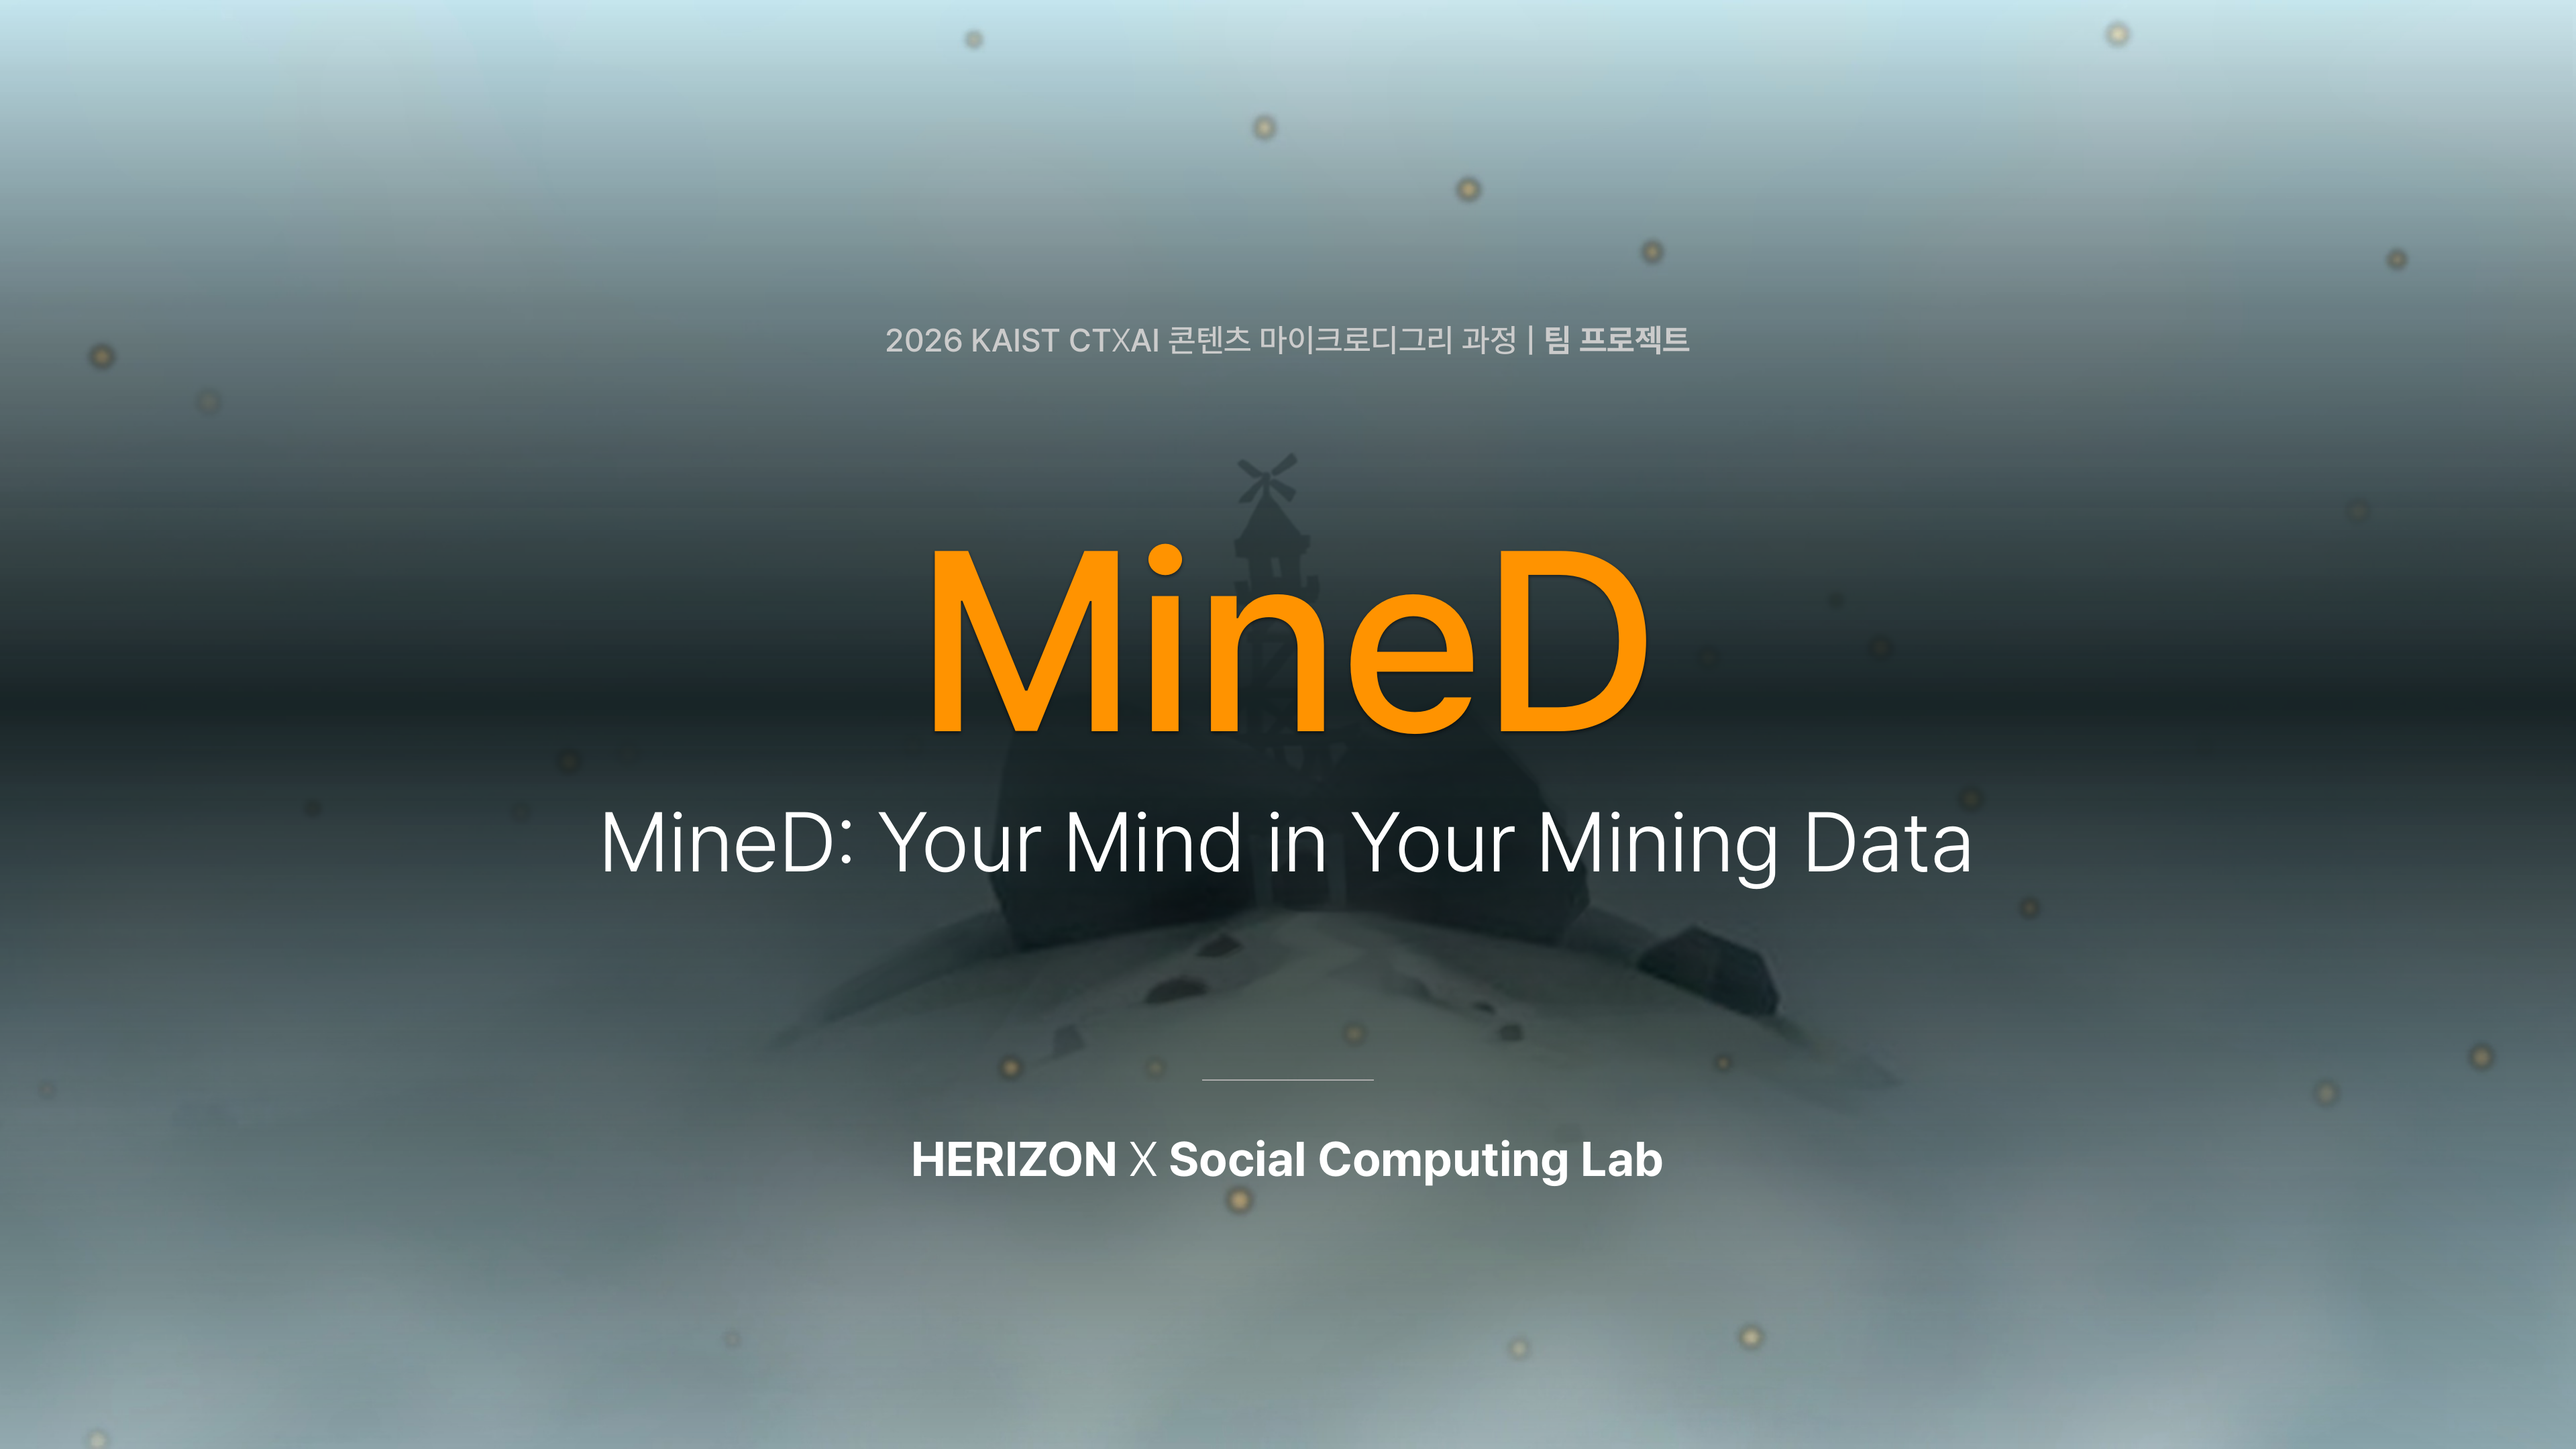
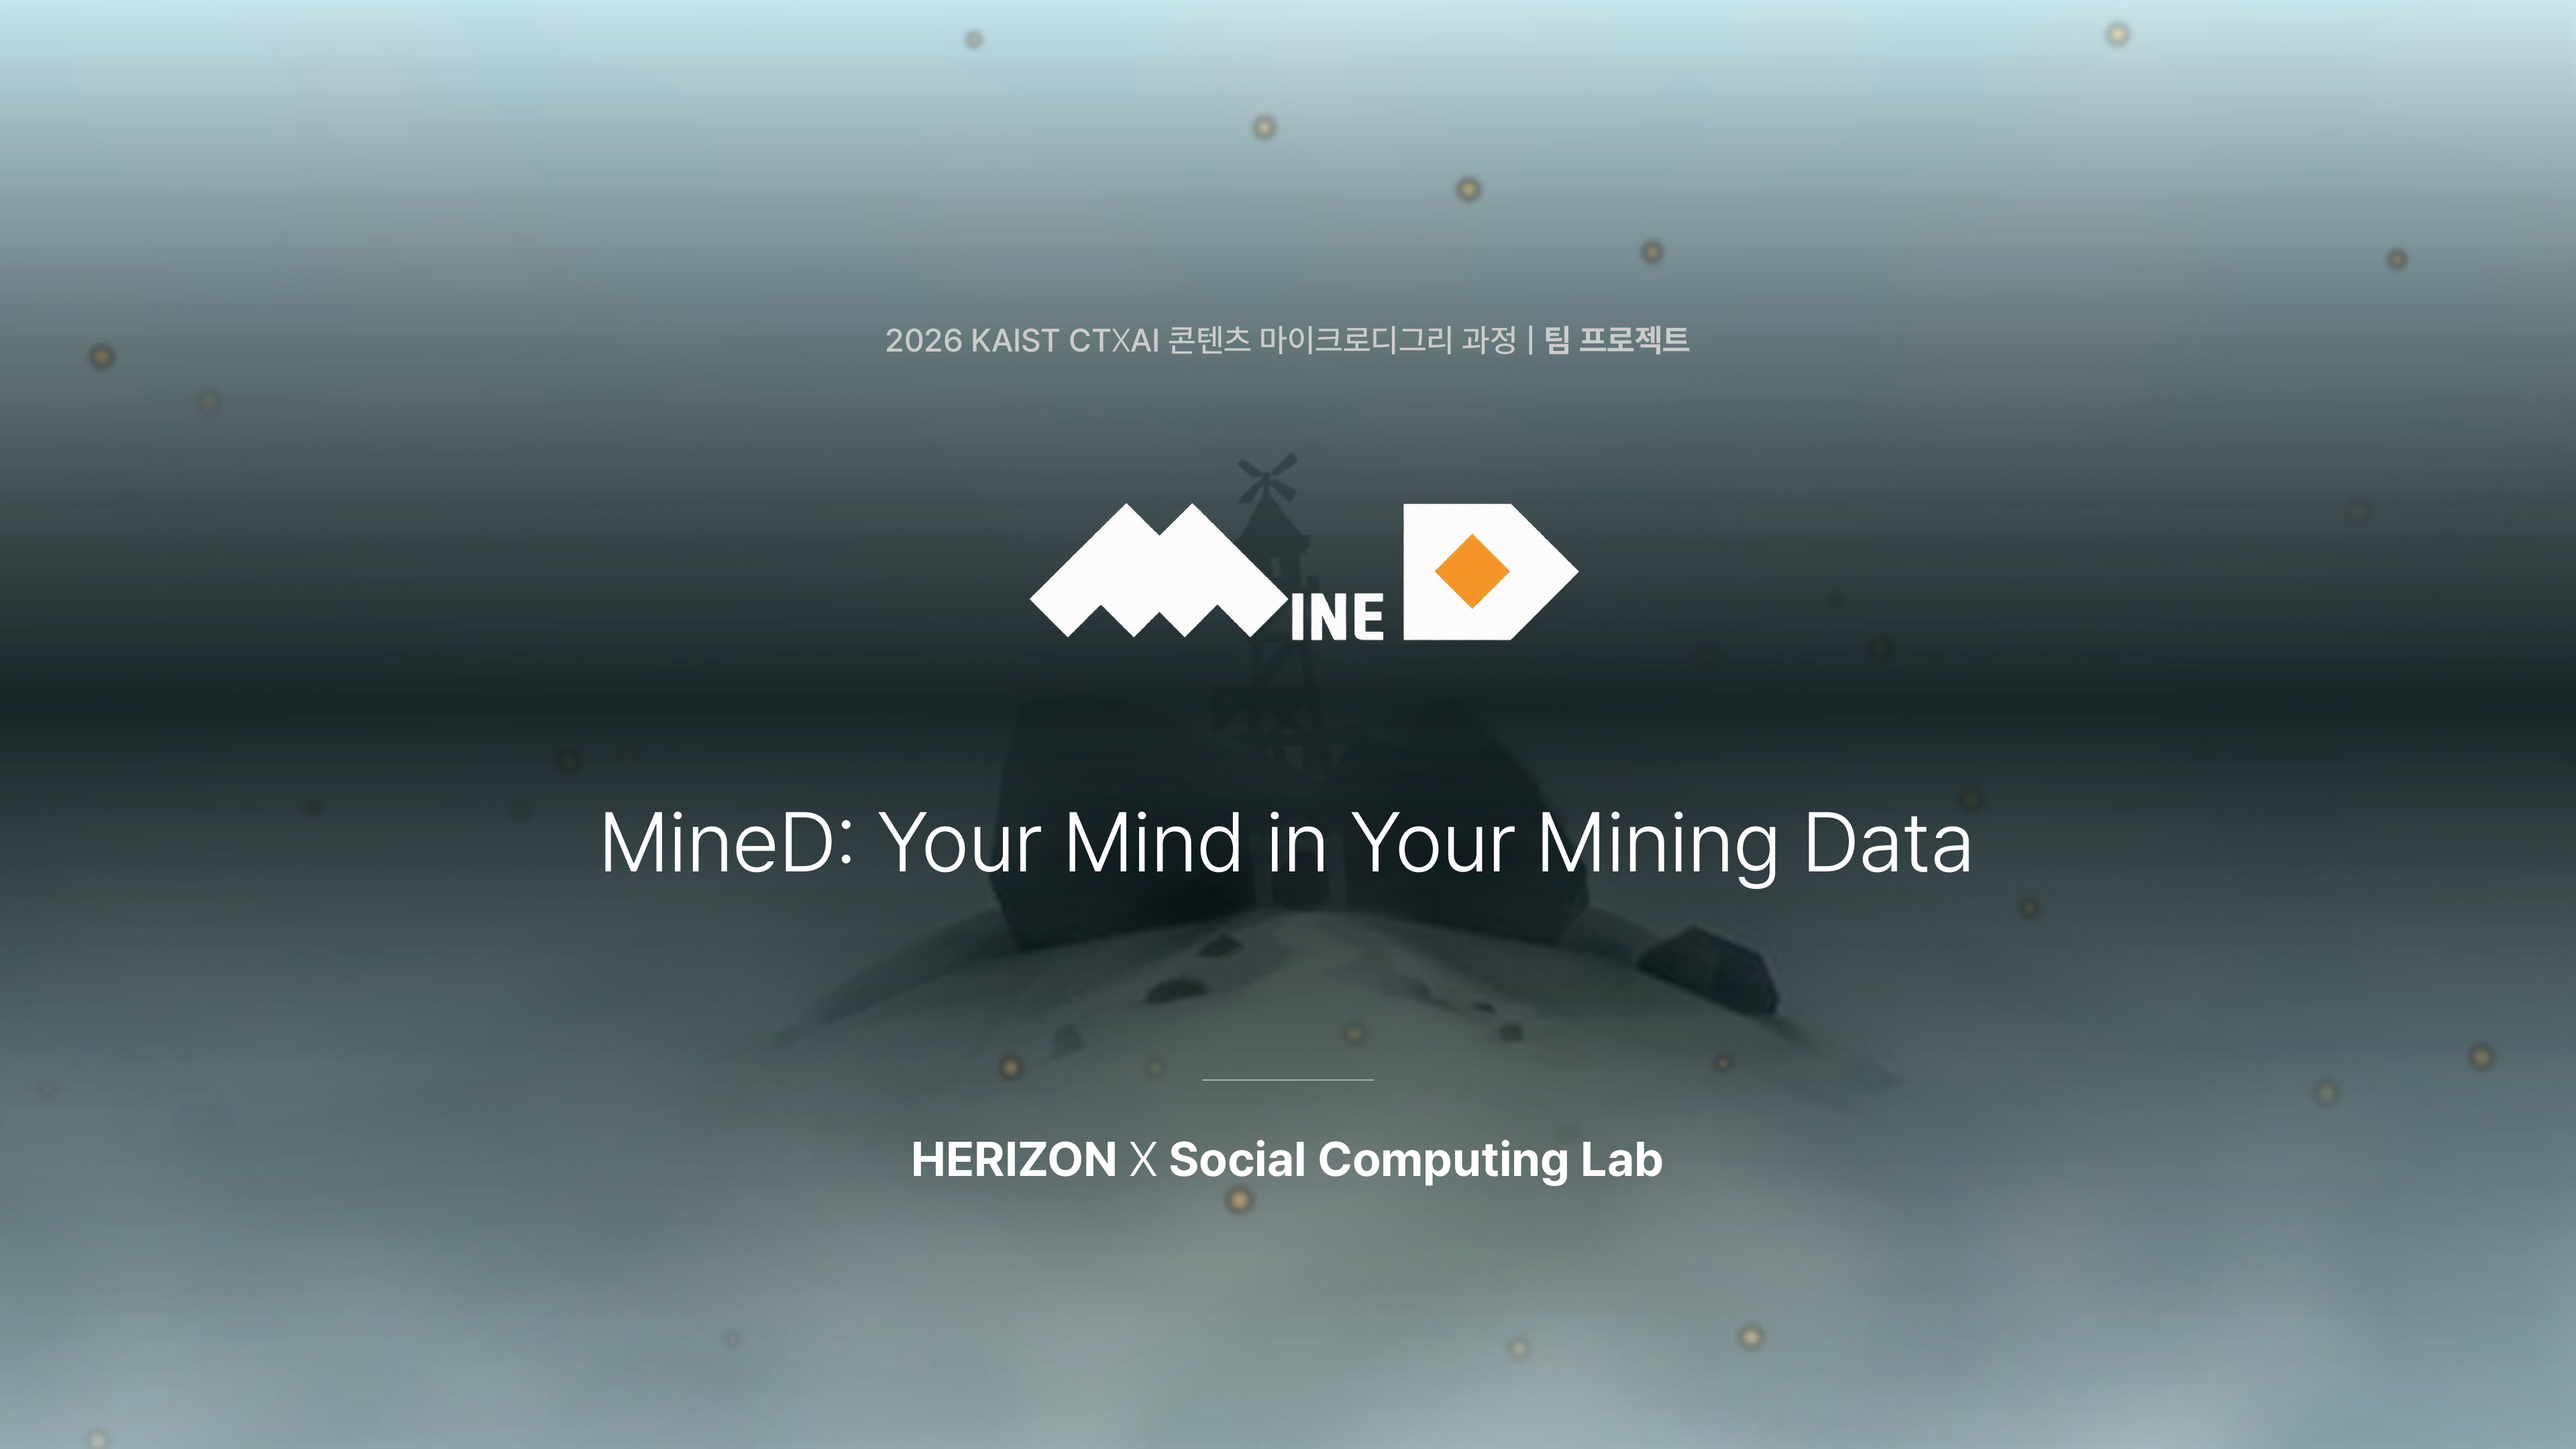
쇼케이스 v7b: 첫 장(메인·서브·심포지엄) 최종 로고 + 한 줄씩 뜨는 타이틀, 첫 장 길이 1초 늘림
Claude-Session: https://claude.ai/code/session_01H6XxrjKT2zziYGGeC5Esr8

Changed region(s): [[0.3438, 0.3412, 0.6562, 0.5273]]

diff --git a/showcase/v0.5_kit/layout/fill.py b/showcase/v0.5_kit/layout/fill.py
@@ -77,12 +77,14 @@ def tech_box(slide, body):
     set_text(sh, body + [[(True, 'AI Tool '), (False, AITOOL)]]); return sh
 
 # 메인 3 · 서브 7·8 · 심포지엄 17·18
-# 2 타이틀: 입력 글자 「MineD」 대신 단희님 최종 로고(산 M + INE + 결정 D, 흰색판)  11/10 보별
-_t2 = [sh for sh in S(2).shapes if sh.has_text_frame and sh.text_frame.text.strip() == 'MineD'][0]
-_cx, _cy = _t2.left + _t2.width // 2, _t2.top + _t2.height // 2
-_t2._element.getparent().remove(_t2._element)
-_lh = Inches(float(os.environ.get('LOGO_H', '7.2'))); _lw = int(_lh * 1452 / 739)
-S(2).shapes.add_picture(os.path.join(os.path.dirname(os.path.abspath(__file__)), 'img', 'logo_white.png'), _cx - _lw // 2, _cy - _lh // 2 - Inches(0.85), _lw, _lh)
+# 2·6·16 타이틀: 입력 글자 「MineD」 대신 단희님 최종 로고(산 M + INE + 결정 D, 흰색판)  11/10 보별
+_LOGO = os.path.join(os.path.dirname(os.path.abspath(__file__)), 'img', 'logo_white.png')
+for _n in (2, 6, 16):
+    _t2 = [sh for sh in S(_n).shapes if sh.has_text_frame and sh.text_frame.text.strip() == 'MineD'][0]
+    _cx, _cy = _t2.left + _t2.width // 2, _t2.top + _t2.height // 2
+    _t2._element.getparent().remove(_t2._element)
+    _lh = Inches(float(os.environ.get('LOGO_H', '7.2'))); _lw = int(_lh * 1452 / 739)
+    S(_n).shapes.add_picture(_LOGO, _cx - _lw // 2, _cy - _lh // 2 - Inches(0.85), _lw, _lh)
 set_text(find(S(3), '이미 쌓인'), [SCEN_S]); tech_box(S(3), TECH_S)
 for n in (7, 17):
     set_text(find(S(n), '이미 쌓인'), [SCEN_L])
@@ -223,4 +225,21 @@ for slide in p.slides:
             for pp in sh.text_frame.paragraphs:
                 for r in pp.runs: r.font.bold = True
         elif t.startswith('“묻힌'): ea(sh, 'MaruBuri')
+# 2 타이틀 단계판: STAGE=0..4 → 배경 / +과정 줄 / +로고 / +부제 / +구분선·팀명 (메인 영상에서 한 줄씩 뜨게)
+_st = os.environ.get('STAGE')
+if _st is not None:
+    _st = int(_st)
+    def _k(sh):
+        if sh.shape_type == MSO_SHAPE_TYPE.PICTURE: return 2
+        if sh.has_text_frame:
+            t = sh.text_frame.text.strip()
+            if t.startswith('2026 KAIST'): return 1
+            if t.startswith('MineD: Your'): return 3
+            if t.startswith('HERIZON'): return 4
+            if t == '' and sh.name.startswith('선'): return 4
+        if sh.name.startswith('선'): return 4
+        return 0
+    for _n in (2, 6, 16):
+        for sh in list(S(_n).shapes):
+            if _k(sh) > _st: sh._element.getparent().remove(sh._element)
 p.save(OUT)

diff --git a/showcase/v0.5_kit/build5.py b/showcase/v0.5_kit/build5.py
@@ -329,7 +329,21 @@ def ending_short(out):
 
 
 def page(png, d, out):
-    """공식 레이아웃 장(PNG) 한 장을 d초 정지 화면으로."""
+    """공식 레이아웃 장(PNG) 한 장을 d초 정지 화면으로.
+    같은 이름_s0~s3.png가 있으면 배경 → 과정 줄 → 로고 → 부제 → 팀명 순서로 한 줄씩 뜨게(11/10 보별)."""
+    stg = [png[:-4] + f'_s{k}.png' for k in range(4)]
+    if all(os.path.exists(x) for x in stg):
+        ts = [0.10, 0.22, 0.37, 0.52]  # s1·s2·s3·완성 장이 뜨는 시각(길이 비율)
+        lay = stg[1:] + [png]
+        ins = ['-loop', '1', '-t', d, '-i', stg[0]]
+        for x in lay: ins += ['-loop', '1', '-t', d, '-i', x]
+        fc = f'[0:v]{fit()}[b0];'
+        for i, x in enumerate(lay):
+            t0 = ts[i] * float(d)
+            fc += f'[{i + 1}:v]{fit()},format=rgba,fade=t=in:st={t0:.2f}:d=0.6:alpha=1[l{i}];[b{i}][l{i}]overlay=format=auto[b{i + 1}];'
+        fc += f'[b{len(lay)}]format=yuv420p,fade=t=in:st=0:d=0.5,fade=t=out:st={float(d) - 0.5:.2f}:d=0.5[v];[{len(lay) + 1}:a]anull[a]'
+        run(ins + silent_ins(d) + ['-filter_complex', fc, '-map', '[v]', '-map', '[a]', '-t', d] + VENC + AENC + [out])
+        return
     run(['-loop', '1', '-t', d, '-i', png] + silent_ins(d) + ['-filter_complex',
         f'[0:v]{fit()},fade=t=in:st=0:d=0.5,fade=t=out:st={d - 0.5:.2f}:d=0.5[v];[1:a]anull[a]',
         '-map', '[v]', '-map', '[a]', '-t', d] + VENC + AENC + [out])
